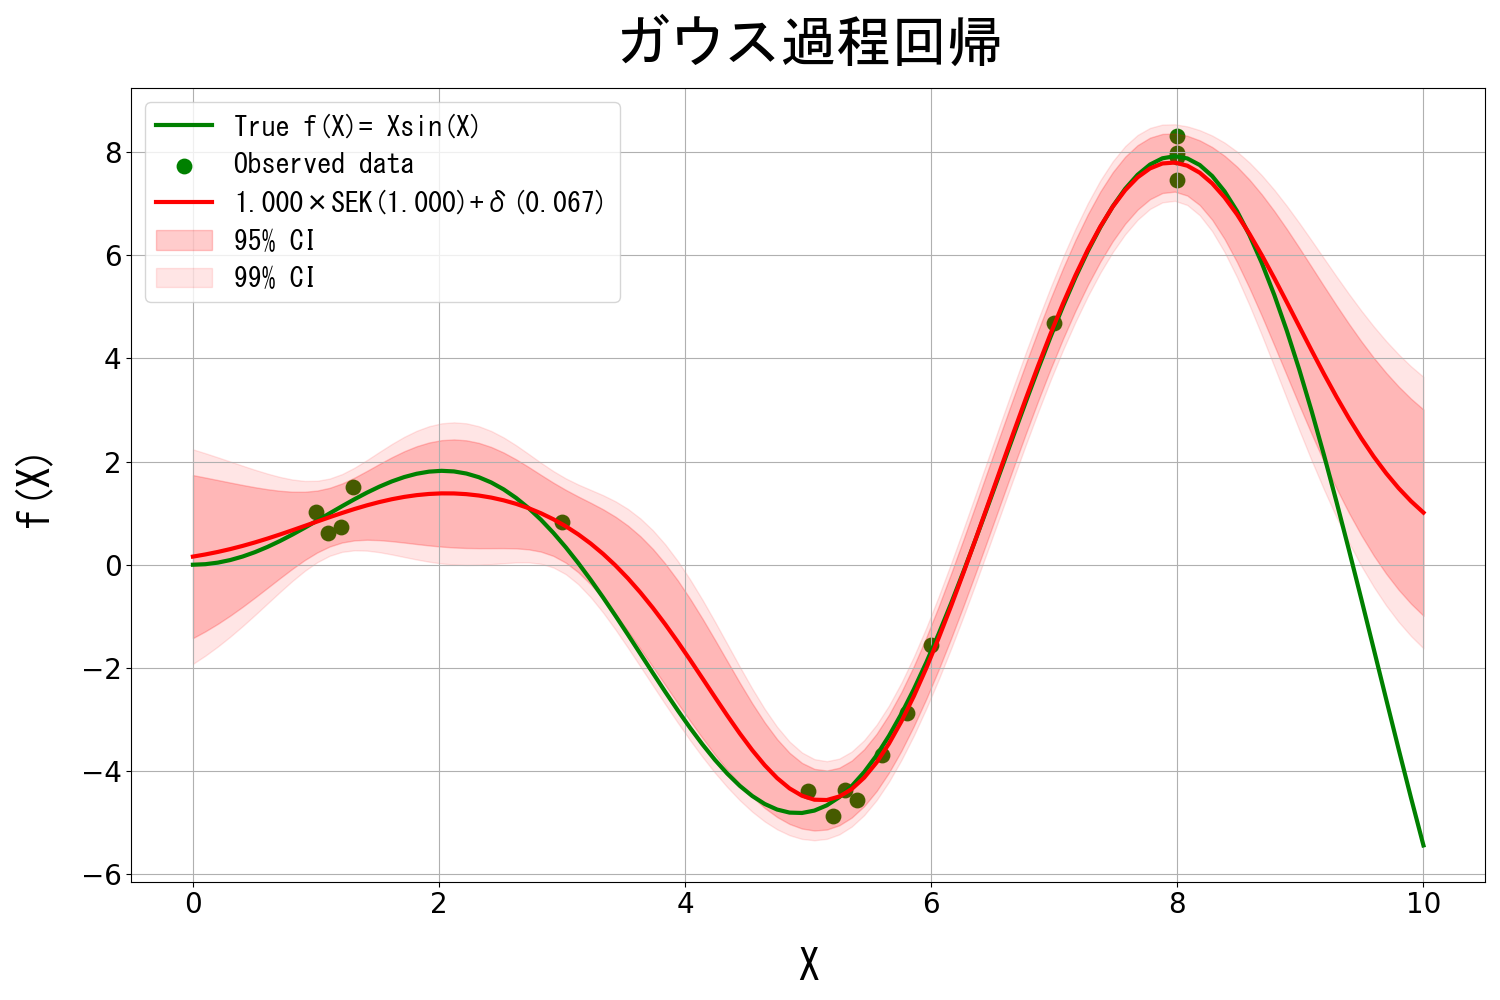
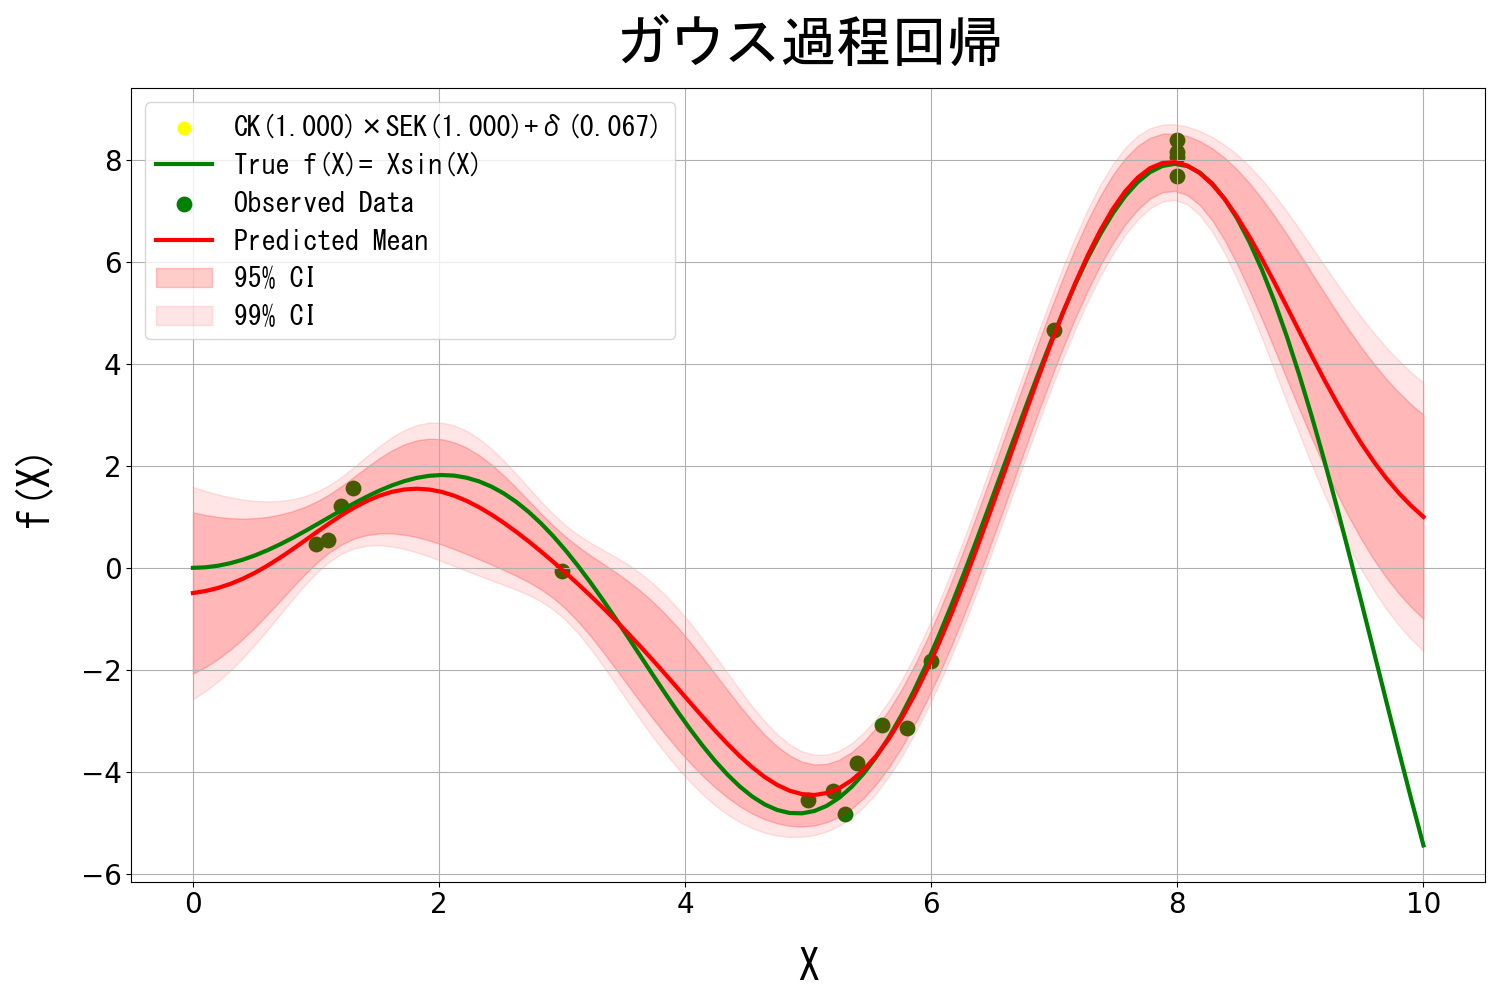
updated readme image

diff --git a/A_Console/A01_PythonAndNumerics/C_AwesomeModels/3_Matrix/3001_GaussianProcessRegression/GaussianProcessRegression.cs b/A_Console/A01_PythonAndNumerics/C_AwesomeModels/3_Matrix/3001_GaussianProcessRegression/GaussianProcessRegression.cs
@@ -98,12 +98,12 @@ public partial class GaussianProcessRegressionExecuter
                 LegendFontSize = 20,
                 Plots = new List<IPlot>
                 {
-                    // new ScatterPlot(Array.Empty<double>(),Array.Empty<double>()){ MarkerColor="k", MarkerSize=100, LegendLabel=kernel.ToString()},
+                    new ScatterPlot(Array.Empty<double>(),Array.Empty<double>()){ MarkerColor="yellow", MarkerSize=100, LegendLabel=kernel.ToString()},
 
                     new LinePlot(predictX, correctY) { LineColor="g", LineWidth=3, LegendLabel="True f(X)= Xsin(X)"},
-                    new ScatterPlot(X, Y) { MarkerSize=130, MarkerColor="g", LegendLabel="Observed data"},
+                    new ScatterPlot(X, Y) { MarkerSize=130, MarkerColor="g", LegendLabel="Observed Data"},
 
-                    new LinePlot(predictX, predictY) { LineColor="red", LineWidth=3, LegendLabel=kernel.ToString()},
+                    new LinePlot(predictX, predictY) { LineColor="red", LineWidth=3, LegendLabel="Predicted Mean"},
 
                     new FillBetweenPlot(predictX, predictY.AddForEach(CI95), predictY.SubForEach(CI95)) {FillColor="red", Alpha=0.20, LegendLabel="95% CI"},
                     //new LinePlot(predictX, predictY.AddForEach(CI95)) { LineColor="red", LineStyle="-", Alpha=0.20 },

diff --git a/1_Examples/101_ConsoleUtilExample/E_ExampleExecuter/E001_All.cs b/1_Examples/101_ConsoleUtilExample/E_ExampleExecuter/E001_All.cs
@@ -886,11 +886,11 @@ public static partial class ExampleExecuter
 
                 // 3001_GaussianProcessRegression
                 {
-                    var baseDir_A01_3001 = baseDir_A01_C.GetChildDirectoryInfo($@"3001_GaussianProcessRegression").CreateAndPipe();
-                    baseDir_A01_3001.OpenOnDefaultApp();
+                    //var baseDir_A01_3001 = baseDir_A01_C.GetChildDirectoryInfo($@"3001_GaussianProcessRegression").CreateAndPipe();
+                    //baseDir_A01_3001.OpenOnDefaultApp();
 
-                    PythonController.Initialize();
-                    GaussianProcessRegressionExecuter.RunExampleModel(baseDir_A01_3001.GetChildFileInfo("gpr.png"));
+                    //PythonController.Initialize();
+                    //GaussianProcessRegressionExecuter.RunExampleModel(baseDir_A01_3001.GetChildFileInfo("gpr.png"));
 
                 }
 

diff --git a/A_Console/A01_PythonAndNumerics/C_AwesomeModels/3_Matrix/3001_GaussianProcessRegression/Kernel/40_ConstantKernel.cs b/A_Console/A01_PythonAndNumerics/C_AwesomeModels/3_Matrix/3001_GaussianProcessRegression/Kernel/40_ConstantKernel.cs
@@ -47,7 +47,7 @@ public partial class GaussianProcessRegressionExecuter
 
         public override string ToString()
         {
-            return $"{ConstantWeight:F3}";
+            return $"CK({ConstantWeight:F3})";
         }
 
 
